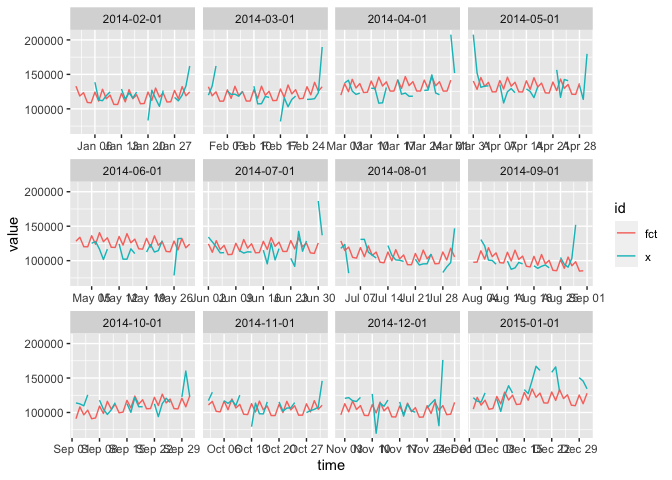
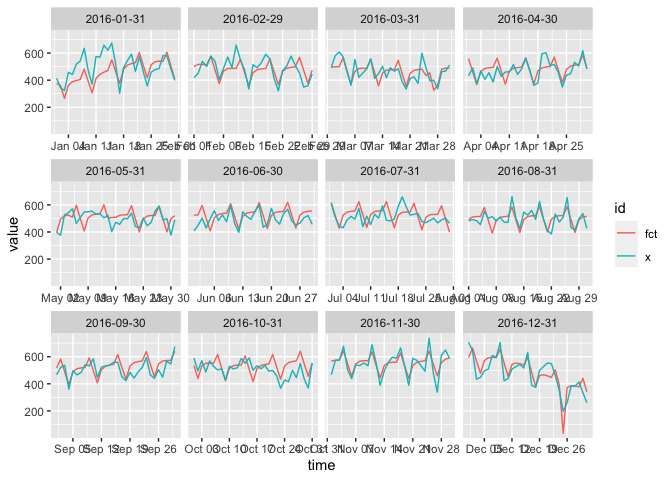
OOS eval, casualties

diff --git a/topics/dailyadj/script/oos_evals.md b/topics/dailyadj/script/oos_evals.md
@@ -1,7 +1,7 @@
 oos\_evals.R
 ================
 christoph
-2020-05-17
+2021-01-02
 
 # 12 Month OOS
 
@@ -15,68 +15,85 @@ pkgload::load_all(".")
     ## Loading dailyadj
 
 ``` r
-x <- transact
+x <- casualties
+# x <- transact
 ```
 
 ## seas\_dummy
 
 ``` r
 z <- oos_evals(x, seas_dummy)
+```
+
+    ## adding extra cols
+    ## adding extra cols
+    ## adding extra cols
+    ## adding extra cols
+    ## adding extra cols
+    ## adding extra cols
+    ## adding extra cols
+    ## adding extra cols
+    ## adding extra cols
+    ## adding extra cols
+    ## adding extra cols
+    ## adding extra cols
+
+``` r
 summary_oos_evals(z)
 ```
 
     ## # A tibble: 13 x 4
-    ##    end          mrse    mae   mpce
-    ##    <chr>       <dbl>  <dbl>  <dbl>
-    ##  1 2014-02-01 21009. 16446. 0.147 
-    ##  2 2014-03-01 15647. 11903. 0.102 
-    ##  3 2014-04-01 14737. 11958. 0.0918
-    ##  4 2014-05-01 17696. 14225. 0.102 
-    ##  5 2014-06-01 24951. 20237. 0.191 
-    ##  6 2014-07-01 19380. 16462. 0.147 
-    ##  7 2014-08-01 29840. 26331. 0.265 
-    ##  8 2014-09-01 19888. 16615. 0.173 
-    ##  9 2014-10-01 17907. 14880. 0.128 
-    ## 10 2014-11-01 14950. 11977. 0.116 
-    ## 11 2014-12-01 14809. 11911. 0.118 
-    ## 12 2015-01-01 30994. 26057. 0.181 
-    ## 13 Mean       20151. 16584. 0.147
+    ##    period      mrse   mae   mpce
+    ##    <chr>      <dbl> <dbl>  <dbl>
+    ##  1 2016-01-31  69.1  58.6 0.122
+    ##  2 2016-02-29  94.8  78.8 0.180
+    ##  3 2016-03-31 105.   89.6 0.208
+    ##  4 2016-04-30  87.1  76.9 0.173
+    ##  5 2016-05-31  86.1  69.4 0.149
+    ##  6 2016-06-30  70.3  61.2 0.128
+    ##  7 2016-07-31  70.3  60.2 0.120
+    ##  8 2016-08-31  71.5  60.7 0.128
+    ##  9 2016-09-30  55.9  45.1 0.0923
+    ## 10 2016-10-31  94.1  80.9 0.172
+    ## 11 2016-11-30  52.2  41.5 0.0823
+    ## 12 2016-12-31 151.  120.  0.324
+    ## 13 Mean        84.0  70.2 0.156
 
 ``` r
 plot_oos_evals(z)
 ```
+
+    ## Warning: Removed 1 row(s) containing missing values (geom_path).
 
 ![](oos_evals_files/figure-gfm/unnamed-chunk-2-1.png)<!-- -->
 
 ## seas\_loess
 
 ``` r
-z <-  oos_evals(x, seas_loess5)
+z <-  oos_evals(x, seas_daily)
 summary_oos_evals(z)
 ```
 
     ## # A tibble: 13 x 4
-    ##    end          mrse    mae   mpce
-    ##    <chr>       <dbl>  <dbl>  <dbl>
-    ##  1 2014-02-01 20752. 17824. 0.148 
-    ##  2 2014-03-01 15296. 11074. 0.0955
-    ##  3 2014-04-01 18965. 13803. 0.103 
-    ##  4 2014-05-01 18125. 14977. 0.108 
-    ##  5 2014-06-01 22941. 18935. 0.176 
-    ##  6 2014-07-01 18679. 14585. 0.131 
-    ##  7 2014-08-01 23652. 17655. 0.181 
-    ##  8 2014-09-01 16881. 11180. 0.105 
-    ##  9 2014-10-01 16472. 14749. 0.126 
-    ## 10 2014-11-01 11167.  9004. 0.0848
-    ## 11 2014-12-01 24248. 19661. 0.167 
-    ## 12 2015-01-01 31743. 24606. 0.168 
-    ## 13 Mean       19910. 15671. 0.133
+    ##    period      mrse   mae   mpce
+    ##    <chr>      <dbl> <dbl>  <dbl>
+    ##  1 2016-01-31  82.2  66.3 0.127
+    ##  2 2016-02-29  57.1  45.9 0.103
+    ##  3 2016-03-31  67.3  55.0 0.121
+    ##  4 2016-04-30  71.3  57.4 0.125
+    ##  5 2016-05-31  60.1  48.0 0.100
+    ##  6 2016-06-30  56.0  46.6 0.0969
+    ##  7 2016-07-31  58.9  46.4 0.0888
+    ##  8 2016-08-31  57.6  45.6 0.0888
+    ##  9 2016-09-30  51.2  42.6 0.0879
+    ## 10 2016-10-31  62.1  51.8 0.108
+    ## 11 2016-11-30  73.5  60.4 0.111
+    ## 12 2016-12-31  82.7  62.4 0.164
+    ## 13 Mean        65.0  52.4 0.110
 
 ``` r
 plot_oos_evals(z)
 ```
-
-    ## Warning: Removed 4 row(s) containing missing values (geom_path).
 
 ![](oos_evals_files/figure-gfm/unnamed-chunk-3-1.png)<!-- -->
 
@@ -109,27 +126,25 @@ summary_oos_evals(z)
 ```
 
     ## # A tibble: 13 x 4
-    ##    end          mrse    mae   mpce
-    ##    <chr>       <dbl>  <dbl>  <dbl>
-    ##  1 2014-02-01 14697. 10758. 0.0910
-    ##  2 2014-03-01 16487. 11706. 0.0980
-    ##  3 2014-04-01 17319. 12986. 0.0952
-    ##  4 2014-05-01 20440. 13169. 0.0871
-    ##  5 2014-06-01 19665. 13774. 0.124 
-    ##  6 2014-07-01 16107. 12000. 0.0982
-    ##  7 2014-08-01 18250. 13381. 0.129 
-    ##  8 2014-09-01 12740.  7469. 0.0695
-    ##  9 2014-10-01 12667. 10092. 0.0861
-    ## 10 2014-11-01 13043. 10417. 0.0959
-    ## 11 2014-12-01 18228. 13954. 0.129 
-    ## 12 2015-01-01 17639. 14222. 0.0995
-    ## 13 Mean       16440. 11994. 0.100
+    ##    period      mrse   mae   mpce
+    ##    <chr>      <dbl> <dbl>  <dbl>
+    ##  1 2016-01-31  74.3  60.3 0.119
+    ##  2 2016-02-29  56.8  42.7 0.0896
+    ##  3 2016-03-31  58.9  48.1 0.109
+    ##  4 2016-04-30  53.2  40.9 0.0882
+    ##  5 2016-05-31  61.8  49.2 0.104
+    ##  6 2016-06-30  51.7  44.4 0.0927
+    ##  7 2016-07-31  58.8  49.6 0.0971
+    ##  8 2016-08-31  52.0  41.0 0.0810
+    ##  9 2016-09-30  43.0  32.8 0.0666
+    ## 10 2016-10-31  57.1  47.1 0.0986
+    ## 11 2016-11-30  58.5  49.9 0.0931
+    ## 12 2016-12-31  72.1  59.4 0.133
+    ## 13 Mean        58.2  47.1 0.0976
 
 ``` r
 plot_oos_evals(z)
 ```
-
-    ## Warning: Removed 4 row(s) containing missing values (geom_path).
 
 ![](oos_evals_files/figure-gfm/unnamed-chunk-4-1.png)<!-- -->
 
@@ -137,41 +152,25 @@ plot_oos_evals(z)
 
 ``` r
 z <- oos_evals(x, seas_prophet)
-```
-
-    ## Loading required package: Rcpp
-
-    ## Loading required package: rlang
-
-    ## 
-    ## Attaching package: 'rlang'
-
-    ## The following objects are masked from 'package:purrr':
-    ## 
-    ##     %@%, as_function, flatten, flatten_chr, flatten_dbl, flatten_int,
-    ##     flatten_lgl, flatten_raw, invoke, list_along, modify, prepend,
-    ##     splice
-
-``` r
 summary_oos_evals(z)
 ```
 
     ## # A tibble: 13 x 4
-    ##    end          mrse    mae   mpce
-    ##    <chr>       <dbl>  <dbl>  <dbl>
-    ##  1 2014-02-01 17340. 12632. 0.105 
-    ##  2 2014-03-01 21261. 14732. 0.123 
-    ##  3 2014-04-01 21189. 15451. 0.117 
-    ##  4 2014-05-01 22074. 15703. 0.111 
-    ##  5 2014-06-01 23838. 18158. 0.161 
-    ##  6 2014-07-01 19220. 14427. 0.120 
-    ##  7 2014-08-01 17457. 13617. 0.131 
-    ##  8 2014-09-01 17677. 13889. 0.132 
-    ##  9 2014-10-01 15356. 10557. 0.0894
-    ## 10 2014-11-01 13334.  9659. 0.0897
-    ## 11 2014-12-01 18636. 11929. 0.105 
-    ## 12 2015-01-01 21599. 16452. 0.113 
-    ## 13 Mean       19082. 13934. 0.117
+    ##    period      mrse   mae   mpce
+    ##    <chr>      <dbl> <dbl>  <dbl>
+    ##  1 2016-01-31  88.4  74.0 0.146
+    ##  2 2016-02-29  62.6  45.9 0.0962
+    ##  3 2016-03-31  56.2  45.0 0.0977
+    ##  4 2016-04-30  55.9  42.6 0.0928
+    ##  5 2016-05-31  64.2  48.5 0.104
+    ##  6 2016-06-30  58.2  50.6 0.106
+    ##  7 2016-07-31  62.9  54.4 0.108
+    ##  8 2016-08-31  47.4  36.5 0.0745
+    ##  9 2016-09-30  52.9  43.4 0.0881
+    ## 10 2016-10-31  69.6  57.6 0.121
+    ## 11 2016-11-30  50.0  39.7 0.0782
+    ## 12 2016-12-31  72.6  57.0 0.146
+    ## 13 Mean        61.7  49.6 0.105
 
 ``` r
 plot_oos_evals(z)
@@ -183,25 +182,41 @@ plot_oos_evals(z)
 
 ``` r
 z <- oos_evals(x, seas_stlf)
+```
+
+    ## adding extra cols
+    ## adding extra cols
+    ## adding extra cols
+    ## adding extra cols
+    ## adding extra cols
+    ## adding extra cols
+    ## adding extra cols
+    ## adding extra cols
+    ## adding extra cols
+    ## adding extra cols
+    ## adding extra cols
+    ## adding extra cols
+
+``` r
 summary_oos_evals(z)
 ```
 
     ## # A tibble: 13 x 4
-    ##    end          mrse    mae   mpce
-    ##    <chr>       <dbl>  <dbl>  <dbl>
-    ##  1 2014-02-01 21839. 18096. 0.155 
-    ##  2 2014-03-01 24409. 18226. 0.146 
-    ##  3 2014-04-01 20474. 14198. 0.101 
-    ##  4 2014-05-01 24628. 18216. 0.127 
-    ##  5 2014-06-01 18741. 12379. 0.107 
-    ##  6 2014-07-01 19870. 12885. 0.106 
-    ##  7 2014-08-01 20321. 16367. 0.159 
-    ##  8 2014-09-01 13004.  9023. 0.0831
-    ##  9 2014-10-01 16021. 11930. 0.101 
-    ## 10 2014-11-01 20076. 16355. 0.142 
-    ## 11 2014-12-01 18881. 14581. 0.137 
-    ## 12 2015-01-01 20744. 15450. 0.105 
-    ## 13 Mean       19917. 14809. 0.122
+    ##    period      mrse   mae   mpce
+    ##    <chr>      <dbl> <dbl>  <dbl>
+    ##  1 2016-01-31  88.2  71.6 0.148
+    ##  2 2016-02-29  86.2  68.8 0.153
+    ##  3 2016-03-31  73.6  61.2 0.141
+    ##  4 2016-04-30  75.6  58.6 0.130
+    ##  5 2016-05-31  60.3  49.2 0.105
+    ##  6 2016-06-30  63.2  53.5 0.113
+    ##  7 2016-07-31  59.6  44.7 0.0869
+    ##  8 2016-08-31  65.7  46.5 0.0904
+    ##  9 2016-09-30  63.2  49.1 0.103
+    ## 10 2016-10-31  64.8  45.9 0.102
+    ## 11 2016-11-30  92.5  72.3 0.136
+    ## 12 2016-12-31 106.   85.6 0.193
+    ## 13 Mean        74.9  58.9 0.125
 
 ``` r
 plot_oos_evals(z)
@@ -215,28 +230,39 @@ plot_oos_evals(z)
 z <- oos_evals(x, seas_harmon)
 ```
 
-    ## ............
+    ## .adding extra cols
+    ## .adding extra cols
+    ## .adding extra cols
+    ## .adding extra cols
+    ## .adding extra cols
+    ## .adding extra cols
+    ## .adding extra cols
+    ## .adding extra cols
+    ## .adding extra cols
+    ## .adding extra cols
+    ## .adding extra cols
+    ## .adding extra cols
 
 ``` r
 summary_oos_evals(z)
 ```
 
     ## # A tibble: 13 x 4
-    ##    end          mrse    mae   mpce
-    ##    <chr>       <dbl>  <dbl>  <dbl>
-    ##  1 2014-02-01 19876. 16292. 0.144 
-    ##  2 2014-03-01 18071. 12745. 0.104 
-    ##  3 2014-04-01 19795. 13399. 0.0950
-    ##  4 2014-05-01 23784. 15164. 0.0990
-    ##  5 2014-06-01 21848. 16629. 0.151 
-    ##  6 2014-07-01 22723. 18188. 0.159 
-    ##  7 2014-08-01 27684. 24665. 0.250 
-    ##  8 2014-09-01 16775. 10712. 0.0952
-    ##  9 2014-10-01 15364. 11435. 0.0971
-    ## 10 2014-11-01 17316. 13985. 0.136 
-    ## 11 2014-12-01 19859. 14348. 0.129 
-    ## 12 2015-01-01 14916. 12595. 0.0896
-    ## 13 Mean       19834. 15013. 0.129
+    ##    period      mrse   mae   mpce
+    ##    <chr>      <dbl> <dbl>  <dbl>
+    ##  1 2016-01-31 101.   82.6 0.167
+    ##  2 2016-02-29  82.2  67.0 0.149
+    ##  3 2016-03-31  71.5  58.6 0.135
+    ##  4 2016-04-30  65.2  49.9 0.111
+    ##  5 2016-05-31  59.5  48.2 0.105
+    ##  6 2016-06-30  58.8  50.3 0.106
+    ##  7 2016-07-31  53.3  41.5 0.0802
+    ##  8 2016-08-31  65.3  46.7 0.0905
+    ##  9 2016-09-30  60.6  48.1 0.101
+    ## 10 2016-10-31  65.2  47.5 0.106
+    ## 11 2016-11-30  89.4  68.4 0.132
+    ## 12 2016-12-31 104.   90.4 0.200
+    ## 13 Mean        73.0  58.3 0.123
 
 ``` r
 plot_oos_evals(z)
@@ -252,24 +278,26 @@ summary_oos_evals(z)
 ```
 
     ## # A tibble: 13 x 4
-    ##    end          mrse    mae  mpce
-    ##    <chr>       <dbl>  <dbl> <dbl>
-    ##  1 2014-02-01 22523. 19629. 0.172
-    ##  2 2014-03-01 22405. 14092. 0.107
-    ##  3 2014-04-01 61855. 60153. 0.480
-    ##  4 2014-05-01 27347. 18502. 0.120
-    ##  5 2014-06-01 63163. 60423. 0.542
-    ##  6 2014-07-01 66458. 63832. 0.567
-    ##  7 2014-08-01 33800. 30730. 0.312
-    ##  8 2014-09-01 49422. 47291. 0.500
-    ##  9 2014-10-01 34686. 32173. 0.274
-    ## 10 2014-11-01 17790. 15097. 0.146
-    ## 11 2014-12-01 38139. 35571. 0.345
-    ## 12 2015-01-01 22746. 17617. 0.121
-    ## 13 Mean       38361. 34592. 0.307
+    ##    period      mrse   mae  mpce
+    ##    <chr>      <dbl> <dbl> <dbl>
+    ##  1 2016-01-31  97.1  78.4 0.169
+    ##  2 2016-02-29  80.9  64.2 0.144
+    ##  3 2016-03-31  76.9  63.0 0.146
+    ##  4 2016-04-30  67.9  53.1 0.118
+    ##  5 2016-05-31  60.0  47.1 0.104
+    ##  6 2016-06-30  65.1  55.4 0.119
+    ##  7 2016-07-31  69.7  63.0 0.128
+    ##  8 2016-08-31  66.1  51.7 0.106
+    ##  9 2016-09-30  69.6  54.1 0.116
+    ## 10 2016-10-31  82.0  64.9 0.145
+    ## 11 2016-11-30  91.4  68.6 0.141
+    ## 12 2016-12-31 121.   95.1 0.247
+    ## 13 Mean        79.0  63.2 0.140
 
 ``` r
 plot_oos_evals(z)
 ```
+
+    ## Warning: Removed 1 row(s) containing missing values (geom_path).
 
 ![](oos_evals_files/figure-gfm/unnamed-chunk-8-1.png)<!-- -->
